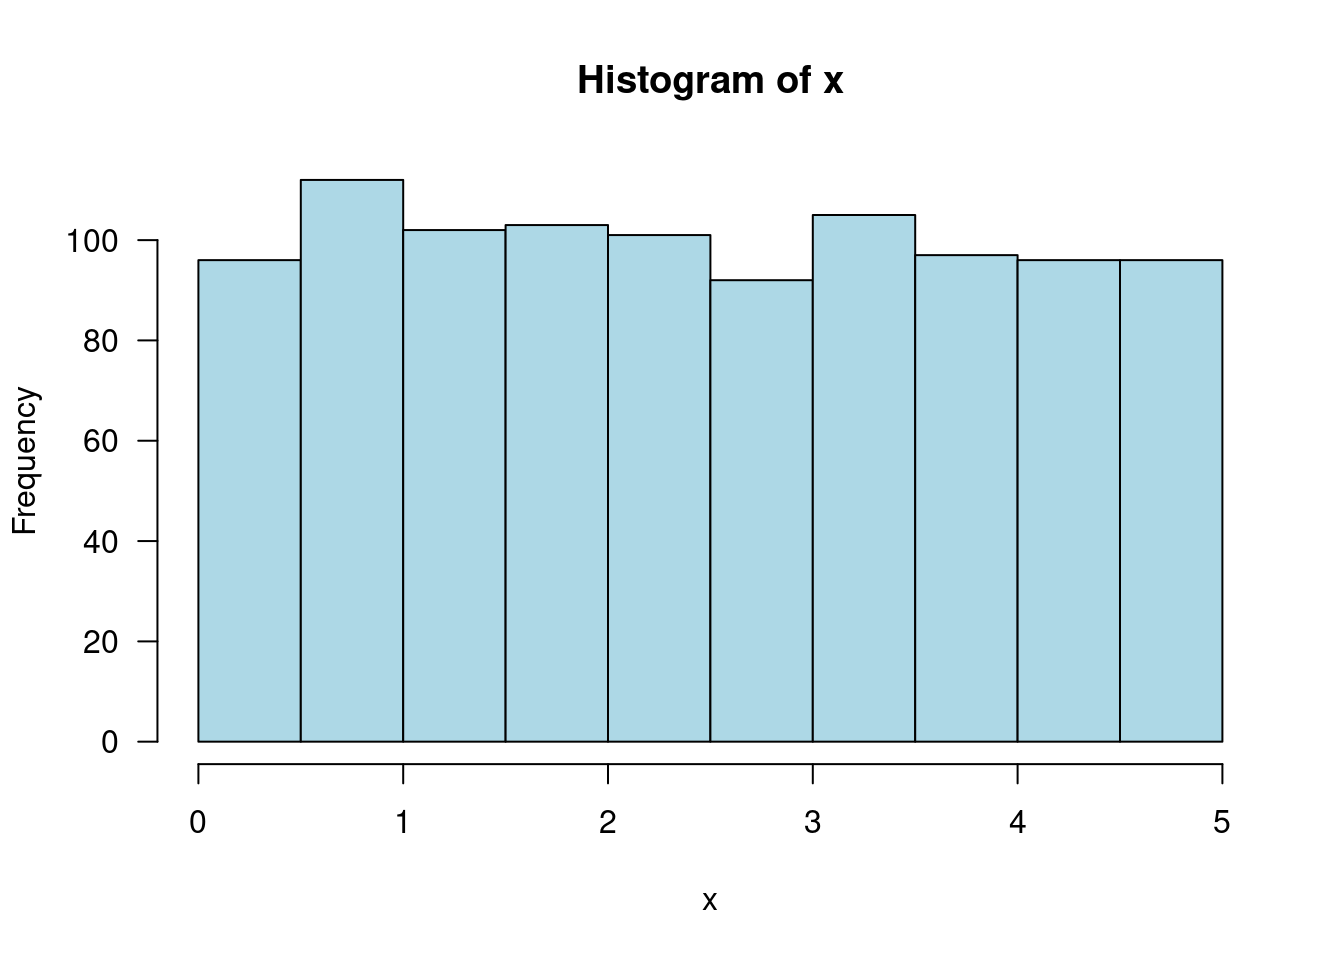
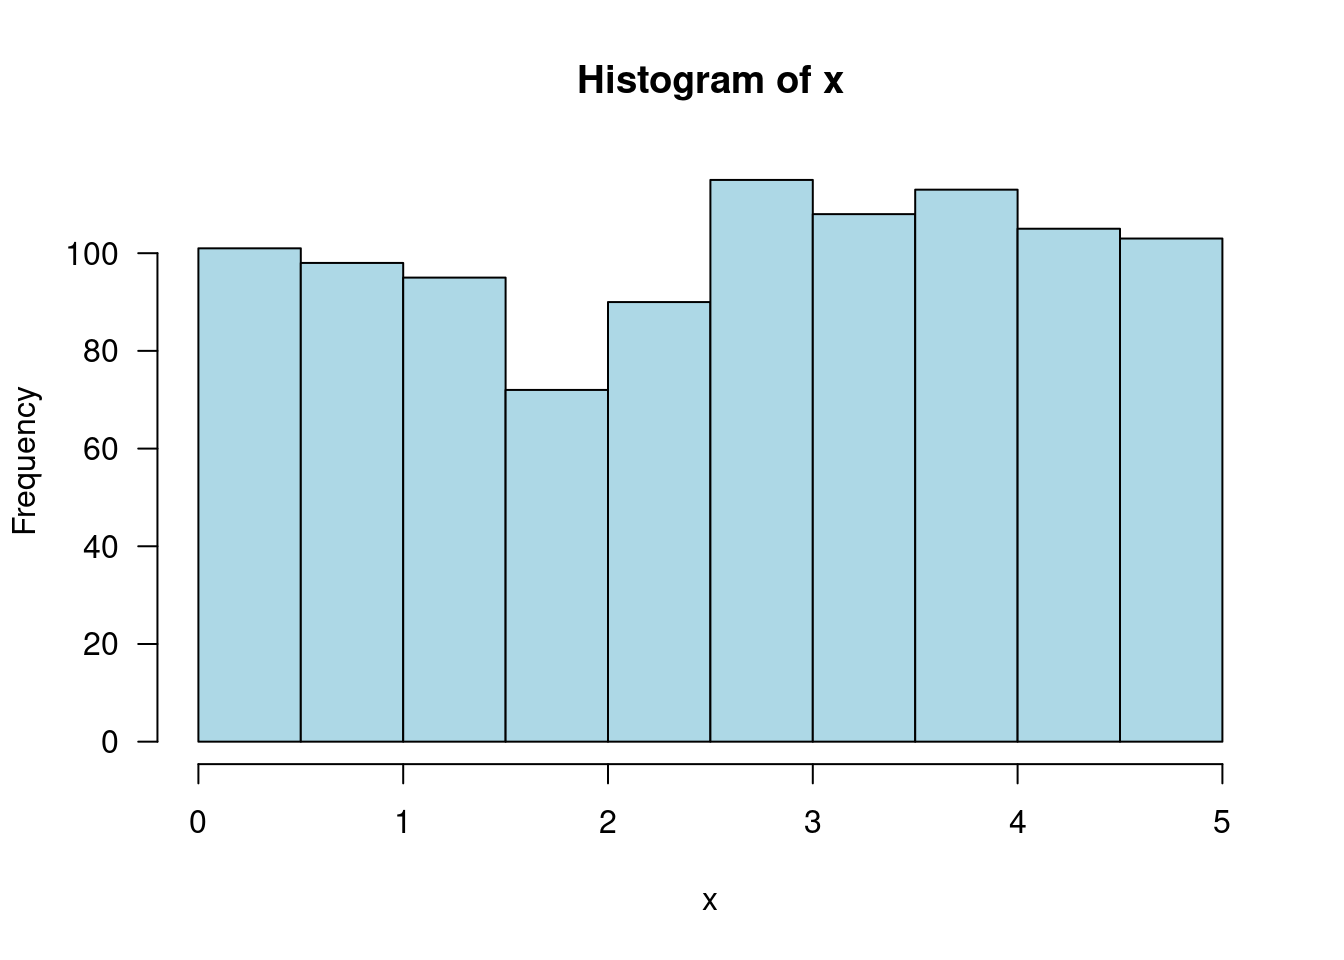
Deploying to gh-pages from @ jtr13/1201@1009b718a2a60002291582e12bcd377307e1b3ab 🚀

diff --git a/ch.-4-continuous-random-variables-and-probability-distributions.html b/ch.-4-continuous-random-variables-and-probability-distributions.html
@@ -82,12 +82,12 @@
 <p><span class="math inline">\(f(x) = .2\)</span> for <span class="math inline">\(0 \leq x \leq 5\)</span>, 0 otherwise.</p>
 <div class="sourceCode" id="cb161"><pre class="downlit sourceCode r">
 <code class="sourceCode R"><span><span class="fu"><a href="https://rdrr.io/r/stats/Uniform.html">runif</a></span><span class="op">(</span>n <span class="op">=</span> <span class="fl">1</span>, min <span class="op">=</span> <span class="fl">0</span>, max <span class="op">=</span> <span class="fl">5</span><span class="op">)</span></span></code></pre></div>
-<pre><code>## [1] 4.87103</code></pre>
+<pre><code>## [1] 3.026556</code></pre>
 <p>Take the average of 1000 picks:</p>
 <div class="sourceCode" id="cb163"><pre class="downlit sourceCode r">
 <code class="sourceCode R"><span><span class="va">x</span> <span class="op">&lt;-</span> <span class="fu"><a href="https://rdrr.io/r/stats/Uniform.html">runif</a></span><span class="op">(</span>n <span class="op">=</span> <span class="fl">1000</span>, min <span class="op">=</span> <span class="fl">0</span>, max <span class="op">=</span> <span class="fl">5</span><span class="op">)</span></span>
 <span><span class="fu"><a href="https://rdrr.io/r/base/mean.html">mean</a></span><span class="op">(</span><span class="va">x</span><span class="op">)</span></span></code></pre></div>
-<pre><code>## [1] 2.471297</code></pre>
+<pre><code>## [1] 2.571813</code></pre>
 <p>Draw a histogram of the 1000 picks:</p>
 <div class="sourceCode" id="cb165"><pre class="downlit sourceCode r">
 <code class="sourceCode R"><span><span class="fu"><a href="https://rdrr.io/r/graphics/hist.html">hist</a></span><span class="op">(</span><span class="va">x</span>, las <span class="op">=</span> <span class="fl">1</span>, col <span class="op">=</span> <span class="st">"lightblue"</span><span class="op">)</span></span></code></pre></div>
